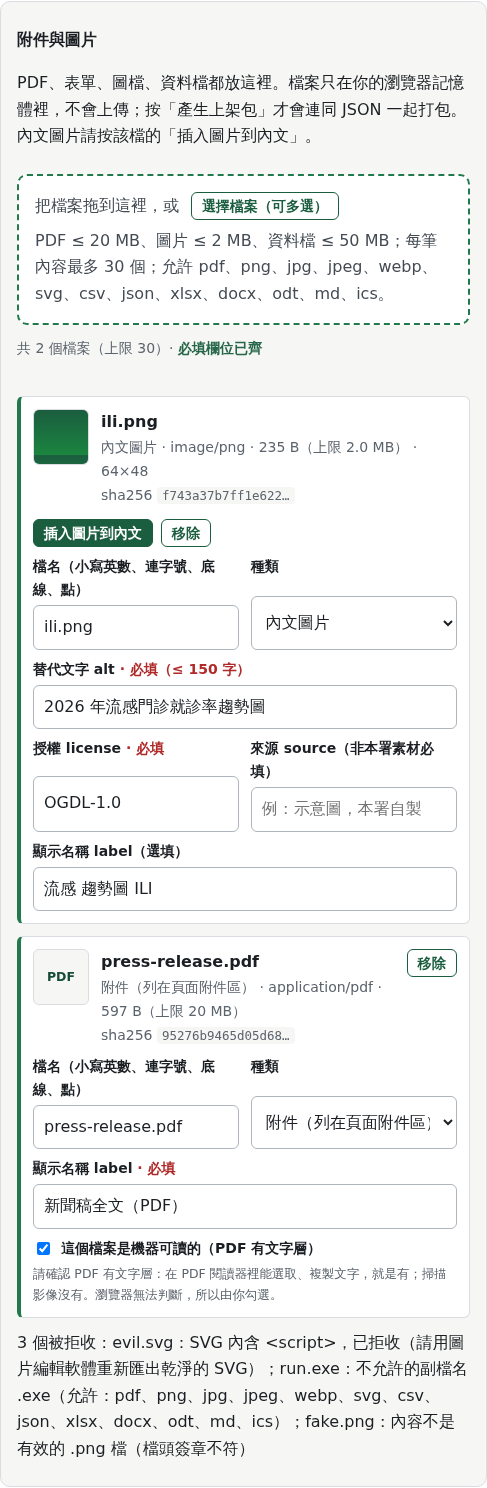
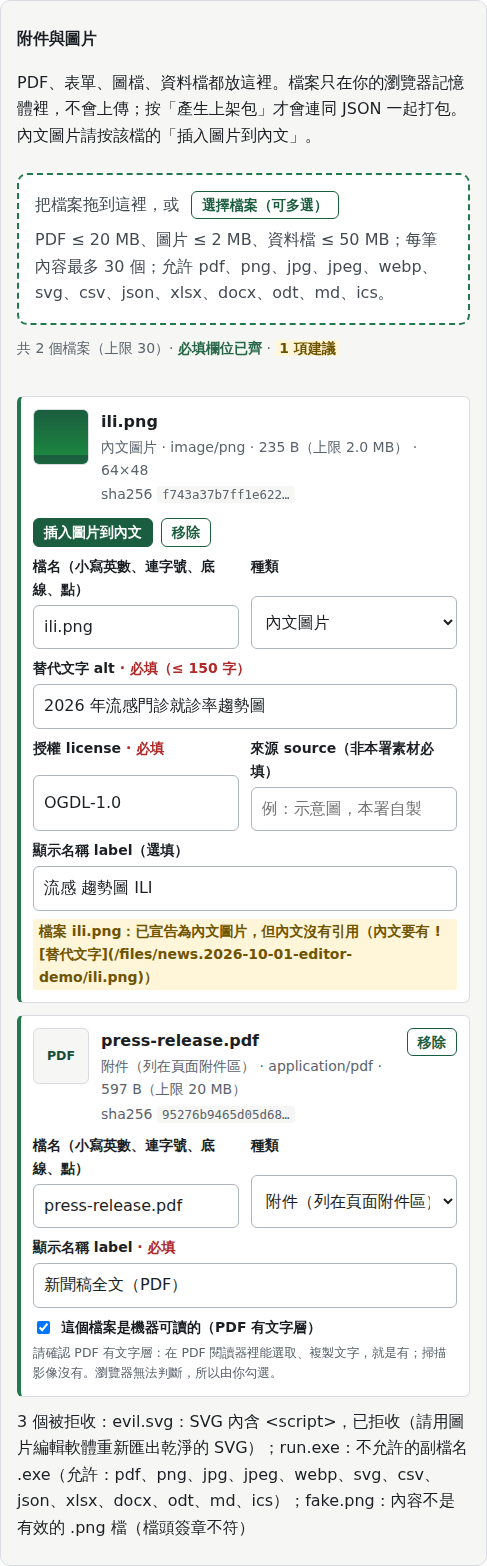
第八輪：上架功能補完：所見即所得／Markdown／預覽三頁籤編輯器、附件與圖片資產管線、上架包 ZIP
資產管線（Y1）
- 內容宣告 assets[]（file、kind attachment|image|data、label、alt、mime、bytes、sha256、machineReadable、accessibleAlt、license、source、width、height）；
  檔案放 content/assets/{id}/，發布為 /files/{id}/{file}（七語共用、不加語言前綴）。
- 建置檢查（scripts/lib/assets.mjs）：檔案存在、sha256／bytes／mime 相符、檔名規則、副檔名與檔頭一致、大小上限（PDF 20 MB、圖 2 MB、資料 50 MB）、
  每筆 ≤ 30 檔、SVG 不得含 script／事件／javascript:／ENTITY、圖片必有 alt 與 license、內文 /files/ 引用必須宣告；違反即建置失敗並印出實際值；
  `npm run build -- --fix-assets` 自動補寫 bytes／sha256／mime／尺寸。只複製 published／archived 內容的檔到 dist/files/。
- 待辦：PDF 無可及性版本（attachment-no-accessible-version）、圖片授權或來源待確認（image-license-missing）、孤兒檔（asset-orphan）。
- md() 以資產登錄補 <img alt>、lazy、尺寸；catalog／v1 帶 assets 摘要；連結檢查納入 /files/。
- 樣本 6 筆 10 檔（零依賴產生：含文字層 PDF、SVG 圖表、PNG、CSV、.md 可及性版本），3 筆 /pending/ 附件改為真檔；修正 catalog 缺 title 的既有 bug。

上架編輯器（Y2）
- 三頁籤同一份資料：所見即所得（contenteditable＋工具列、Word／網頁貼上清理、Ctrl+B／I／K）、Markdown、預覽（站上 c-prose 樣式、blob 圖預覽）；
  HTML↔Markdown 自寫轉換（巢狀清單、表格、圖片、引用、程式碼；23 種 XSS 字串測試）；marked 以 vendor 方式載入。存檔一律 Markdown。
- 附件與圖片面板：拖放多檔、檔名正規化、kind 預設、alt／label／license／source、Web Crypto sha256、尺寸、檔頭簽章與 SVG 掃描拒收、
  插入圖片到內文、改 id／改檔名同步引用、移除需確認；檔案只在記憶體。
- 「產生上架包（.zip）」：自寫 store-only ZIP（CRC32、UTF-8 檔名），含 content/{dir}/{id}.json 與 content/assets/{id}/…，附放置路徑樹與 PR 指引；預檢新增資產規則。

文件（Y3）：docs/assets-policy.md、guide-staff 第 2 節上架 SOP 重寫、governance-model 規則 22–24、plan-supplement +2（36 項）、README。
整合：頁面「檔案與機讀版本」區列出未在附件區出現的 assets（如 PDF 的 .md 可及性版本、CSV）；/files/ 不加語言前綴；.gitattributes 保護資產換行。
測試 318、評估集 195、2,561 頁、連結 0 錯誤。
[…]

diff --git a/README.md b/README.md
@@ -36,7 +36,7 @@
 
 ## 規模與功能清單
 
-- **規模**：內容 300 筆（疾病、疫苗、FAQ、新聞與公告、文件、澄清、資料集、影音、專區、申請服務、出版品、檢驗項目、研究計畫、職缺、標案）；七語靜態頁 2,561 頁（含 231 個目的地頁）；後台 18 頁；評估集 195 題（版本題 19）；治理測試 268 項。
+- **規模**：內容 300 筆（疾病、疫苗、FAQ、新聞與公告、文件、澄清、資料集、影音、專區、申請服務、出版品、檢驗項目、研究計畫、職缺、標案）；七語靜態頁 2,561 頁（含 231 個目的地頁）；後台 18 頁；評估集 195 題（版本題 19）；治理測試 318 項。
 - **內容型別（16 種）**：疾病、Q&A、新聞稿／通函／澄清、文件（版本鏈）、疫苗、資料集、Banner、一般頁，加上第二輪新增的**影音、專區、申請服務、出版品、檢驗項目、研究計畫**，以及第七輪獨立出的**人才招募（`job`）、採購公告（`tender`）**。
 - **民眾端**：一句話提問、六任務、疫情態勢、疾病與疫苗、旅遊、謠言查證、影音庫、專區、申請專區、公告、署長信箱。
 - **專業端**：版本異動對照、檢驗專區、通報專區（時限表自動產生）、研究計畫、出版品、訂閱。
